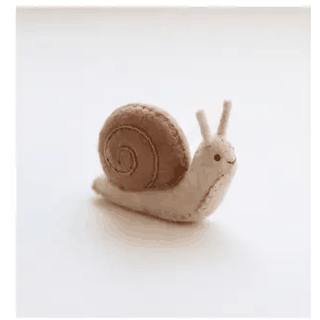
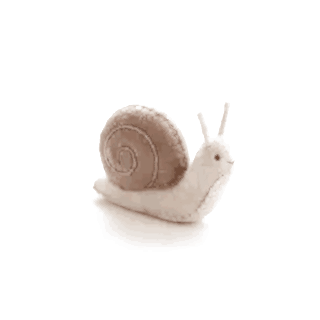
Remove backgrounds from forest objects

diff --git a/src/App.tsx b/src/App.tsx
@@ -9,7 +9,7 @@ import {sound,speak,voices} from './audio';
 import './outfit.css';
 type View='home'|'rule'|'cards'|'game'|'result'|'collection'|'decorate'|'parent';
 const pad=(n:number)=>String(n).padStart(2,'0');
-function Asset({path,alt,kind='tree',className=''}:{path:string;alt:string;kind?:string;className?:string}){const [failed,setFailed]=useState(false),[moment,setMoment]=useState(0);const isHero=className.split(' ').includes('tori')&&path==='char/base',activePath=isHero?capyMoments[moment].path:path,activeAlt=isHero?capyMoments[moment].alt:alt;useEffect(()=>setFailed(false),[activePath]);useEffect(()=>{if(!isHero)return;const id=setInterval(()=>setMoment(i=>(i+1)%capyMoments.length),4200);return()=>clearInterval(id)},[isHero]);const pose=kind==='char'?` capy-${activePath.split('/').pop()}`:'';return <span className={'asset '+className+pose} title={isHero?capyMoments[moment].label:undefined}>{!failed&&availableAssets.has(activePath+'.png')?<img key={activePath} src={assetUrls.get(activePath+'.png')} alt={activeAlt} loading={kind==='char'?'eager':'lazy'} decoding="async" onError={()=>setFailed(true)}/>:kind==='char'?<Acorn weight="duotone"/>:kind==='animal'?<PawPrint weight="duotone"/>:kind==='deco'?<Flower weight="duotone"/>:activePath.endsWith('stage-1')?<Acorn weight="duotone"/>:activePath.endsWith('stage-2')?<Plant weight="duotone"/>:<Tree weight={activePath.endsWith('stage-4')?'fill':'duotone'}/>}</span>}
+function Asset({path,alt,kind='tree',className=''}:{path:string;alt:string;kind?:string;className?:string}){const [failed,setFailed]=useState(false),[moment,setMoment]=useState(0);const isHero=className.split(' ').includes('tori')&&path==='char/base',activePath=isHero?capyMoments[moment].path:path,activeAlt=isHero?capyMoments[moment].alt:alt;useEffect(()=>setFailed(false),[activePath]);useEffect(()=>{if(!isHero)return;const id=setInterval(()=>setMoment(i=>(i+1)%capyMoments.length),4200);return()=>clearInterval(id)},[isHero]);const pose=kind==='char'?` capy-${activePath.split('/').pop()}`:'';return <span className={'asset asset-'+kind+' '+className+pose} title={isHero?capyMoments[moment].label:undefined}>{!failed&&availableAssets.has(activePath+'.png')?<img key={activePath} src={assetUrls.get(activePath+'.png')} alt={activeAlt} loading={kind==='char'?'eager':'lazy'} decoding="async" onError={()=>setFailed(true)}/>:kind==='char'?<Acorn weight="duotone"/>:kind==='animal'?<PawPrint weight="duotone"/>:kind==='deco'?<Flower weight="duotone"/>:activePath.endsWith('stage-1')?<Acorn weight="duotone"/>:activePath.endsWith('stage-2')?<Plant weight="duotone"/>:<Tree weight={activePath.endsWith('stage-4')?'fill':'duotone'}/>}</span>}
 const capyMoments=[
  {path:'char/base',alt:'가만히 숨 쉬는 카피바라',label:'토리가 느긋하게 숨을 쉬고 있어요'},
  {path:'char/side',alt:'주변을 둘러보는 카피바라',label:'토리가 숲 친구를 찾고 있어요'},

diff --git a/vite.config.ts b/vite.config.ts
@@ -1,4 +1,4 @@
 import {defineConfig} from 'vite';
 import react from '@vitejs/plugin-react';
 import {VitePWA} from 'vite-plugin-pwa';
-export default defineConfig({plugins:[react(),VitePWA({registerType:'autoUpdate',filename:'forest-sw-v10.js',injectRegister:false,includeAssets:['favicon.svg','icon-192.png','icon-512.png'],manifest:{name:'과거형 숲',short_name:'과거형 숲',lang:'ko',description:'68개 불규칙동사 숲 탐험',theme_color:'#215b3e',background_color:'#f5f8ed',display:'standalone',start_url:'/',icons:[{src:'/icon-192.png',sizes:'192x192',type:'image/png'},{src:'/icon-512.png',sizes:'512x512',type:'image/png',purpose:'any'}]},workbox:{cacheId:"forest-v10",importScripts:["/forest-cache-migration.js"],cleanupOutdatedCaches:true,ignoreURLParametersMatching:[/^v$/,/^utm_/,/^fbclid$/],navigateFallback:null,runtimeCaching:[{urlPattern:({request})=>request.mode==='navigate',handler:'NetworkFirst',options:{cacheName:'forest-pages-v10',networkTimeoutSeconds:4,cacheableResponse:{statuses:[200]}}}],globPatterns:['**/*.{js,css,html,svg,png,webp,woff2,json}'],maximumFileSizeToCacheInBytes:6000000}})],server:{host:'0.0.0.0',port:4173}});
+export default defineConfig({plugins:[react(),VitePWA({registerType:'autoUpdate',filename:'forest-sw-v11.js',injectRegister:false,includeAssets:['favicon.svg','icon-192.png','icon-512.png'],manifest:{name:'과거형 숲',short_name:'과거형 숲',lang:'ko',description:'68개 불규칙동사 숲 탐험',theme_color:'#215b3e',background_color:'#f5f8ed',display:'standalone',start_url:'/',icons:[{src:'/icon-192.png',sizes:'192x192',type:'image/png'},{src:'/icon-512.png',sizes:'512x512',type:'image/png',purpose:'any'}]},workbox:{cacheId:"forest-v11",importScripts:["/forest-cache-migration.js"],cleanupOutdatedCaches:true,ignoreURLParametersMatching:[/^v$/,/^utm_/,/^fbclid$/],navigateFallback:null,runtimeCaching:[{urlPattern:({request})=>request.mode==='navigate',handler:'NetworkFirst',options:{cacheName:'forest-pages-v11',networkTimeoutSeconds:4,cacheableResponse:{statuses:[200]}}}],globPatterns:['**/*.{js,css,html,svg,png,webp,woff2,json}'],maximumFileSizeToCacheInBytes:6000000}})],server:{host:'0.0.0.0',port:4173}});

diff --git a/public/forest-cache-migration.js b/public/forest-cache-migration.js
@@ -1,6 +1,6 @@
 // Only obsolete response caches; never IndexedDB or localStorage.
 self.addEventListener('activate',event=>{
  event.waitUntil(caches.keys().then(names=>Promise.all(names.filter(name=>
-  (name.startsWith('workbox-')&&!name.includes('forest-v10'))||name==='forest-pages-v2'||name==='forest-pages-v3'||name==='forest-pages-v4'||name==='forest-pages-v5'||name==='forest-pages-v6'||name==='forest-pages-v7'||name==='forest-pages-v8'||name==='forest-pages-v9'
+  (name.startsWith('workbox-')&&!name.includes('forest-v11'))||name==='forest-pages-v2'||name==='forest-pages-v3'||name==='forest-pages-v4'||name==='forest-pages-v5'||name==='forest-pages-v6'||name==='forest-pages-v7'||name==='forest-pages-v8'||name==='forest-pages-v9'||name==='forest-pages-v10'
  ).map(name=>caches.delete(name)))));
 });

diff --git a/src/main.tsx b/src/main.tsx
@@ -6,7 +6,7 @@ ReactDOM.createRoot(document.getElementById('root')!).render(<React.StrictMode><
 
 // Replace the legacy cache controller without touching learning records.
 if ('serviceWorker' in navigator) {
- const worker=navigator.serviceWorker.register('/forest-sw-v10.js',{scope:'/',updateViaCache:'none'});
+ const worker=navigator.serviceWorker.register('/forest-sw-v11.js',{scope:'/',updateViaCache:'none'});
  const checkUpdate=()=>{if(document.visibilityState==='visible')worker.then(r=>r.update()).catch(()=>{});};
  window.addEventListener('focus',checkUpdate);
  document.addEventListener('visibilitychange',checkUpdate);

diff --git a/src/outfit.css b/src/outfit.css
@@ -5,3 +5,5 @@
 .capy-wear .wear-scarf{left:18%;top:50%;width:58%}
 .capy-closet button{min-height:54px;padding:5px 11px;display:inline-flex;align-items:center;gap:4px}
 .capy-closet button img{width:40px;height:40px;object-fit:contain}
+.asset-char,.asset-animal,.asset-deco{background:transparent!important}
+.asset-char img,.asset-animal img,.asset-deco img{mix-blend-mode:normal}
